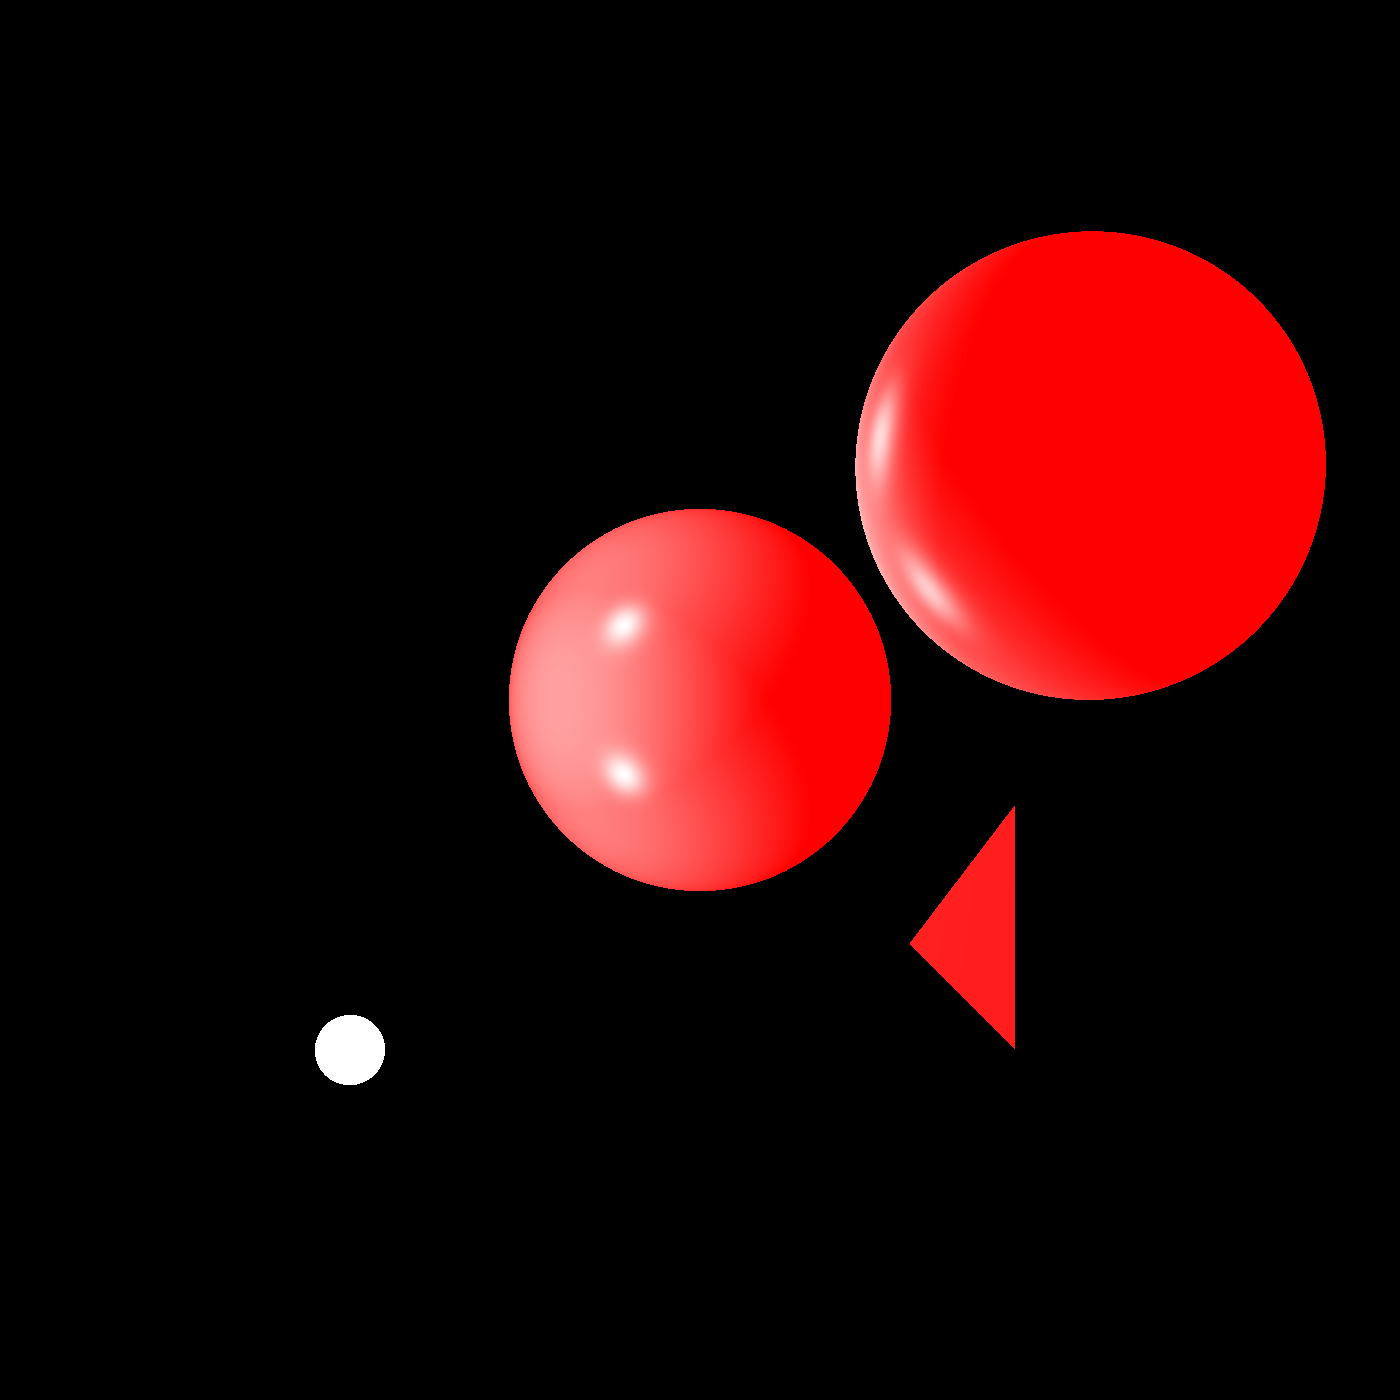
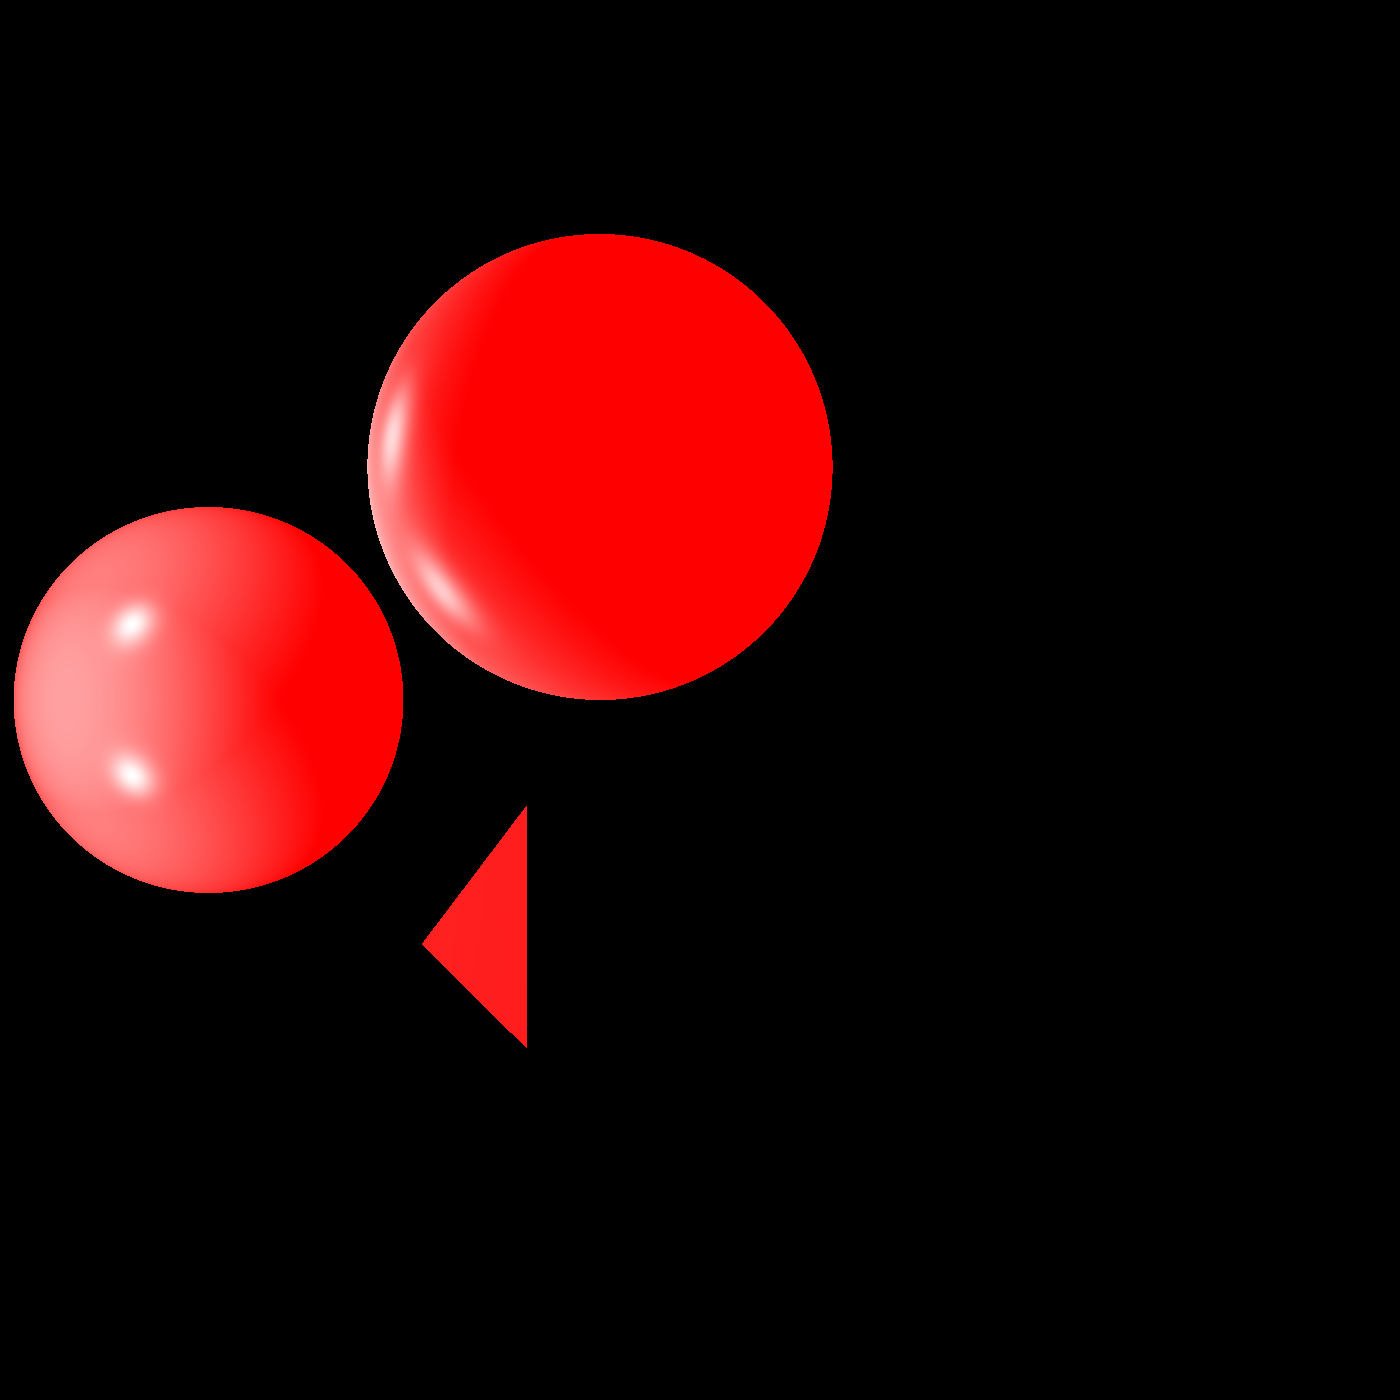
Mini Project stage 8

Changed region(s): [[0.0, 0.1536, 0.9521, 0.7371], [0.645, 0.5836, 0.7371, 0.7371], [0.215, 0.7064, 0.2764, 0.7986]]

diff --git a/project/Tests/special/generalTest.java b/project/Tests/special/generalTest.java
@@ -109,7 +109,10 @@ class generalTest {
 
     @Test
     public void generalTest3() {
-        scene.geometries.add( //
+        Scene scene3 = new Scene("Test general scene");
+        Camera camera3 = new Camera(new Point3D(0, 0, 1000), new Vector(0.14, 0, -1), new Vector(0, 1, 0))  //
+                .setViewPlaneSize(400, 400).setDistance(1000);
+        scene3.geometries.add( //
                 new Sphere(60, new Point3D(0, 0, -100)) //
                         .setEmission(new Color(java.awt.Color.RED)) //
                         .setMaterial(new Material().setKd(0.5).setkS(0.5).setShininess(30)), //
@@ -126,12 +129,12 @@ class generalTest {
 //        scene.lights.add( //
 //                new SpotLight(new Color(400, 240, 0), new Point3D(-100, -100, 200), new Vector(1, 1, -3)) //
 //                        .setKl(1E-5).setKq(1.5E-7));
-        scene.lights.add(new PointLight(new Color(java.awt.Color.white), new Point3D(-100, -100, 0)).setKl(1E-5).setKq(1.5E-7));
-        scene.lights.add(new PointLight(new Color(java.awt.Color.white), new Point3D(-100, 100, 0)).setKl(1E-5).setKq(1.5E-7));
+        scene3.lights.add(new PointLight(new Color(java.awt.Color.white), new Point3D(-100, -100, 0)).setKl(1E-5).setKq(1.5E-7));
+        scene3.lights.add(new PointLight(new Color(java.awt.Color.white), new Point3D(-100, 100, 0)).setKl(1E-5).setKq(1.5E-7));
         Render render = new Render(). //
                 setImageWriter(new ImageWriter("generalTest3", 1400, 1400)) //
-                .setCamera(camera) //
-                .setRayTracer(new BasicRayTracer(scene))
+                .setCamera(camera3) //
+                .setRayTracer(new BasicRayTracer(scene3))
                 .setMultithreading(4);
         render.renderImageSuperSampling(4);
         render.writeToImage();
